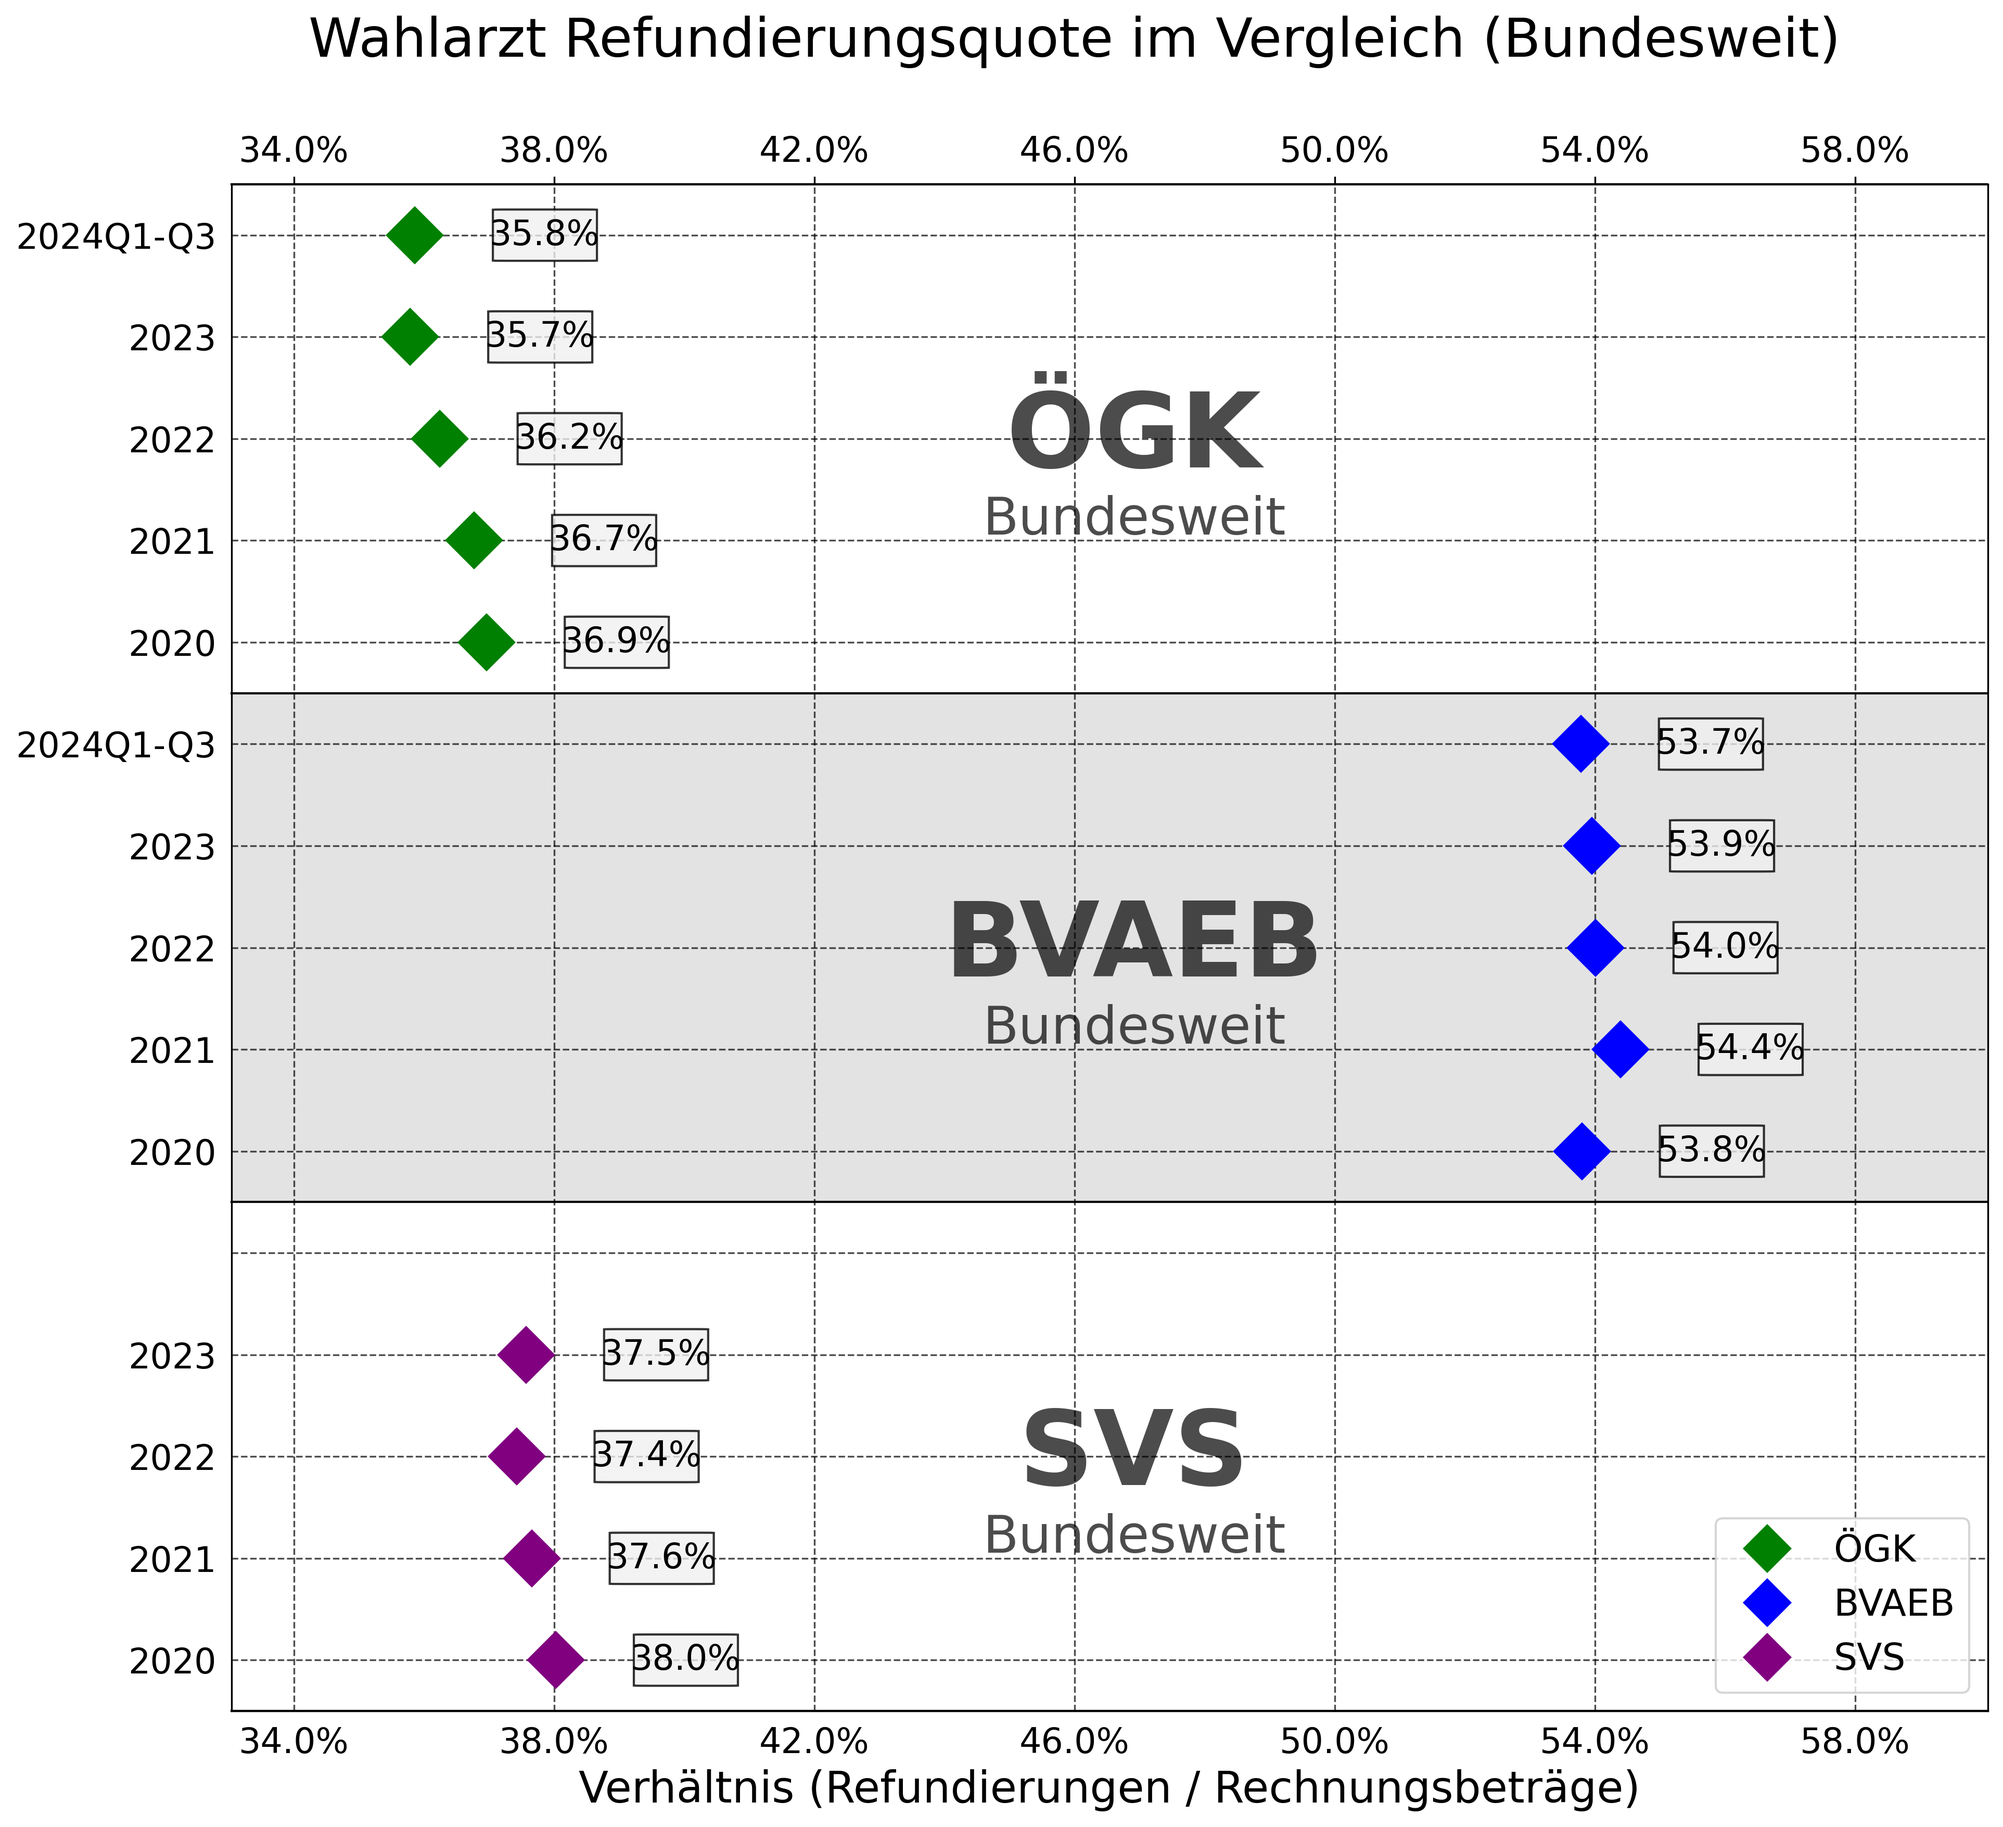
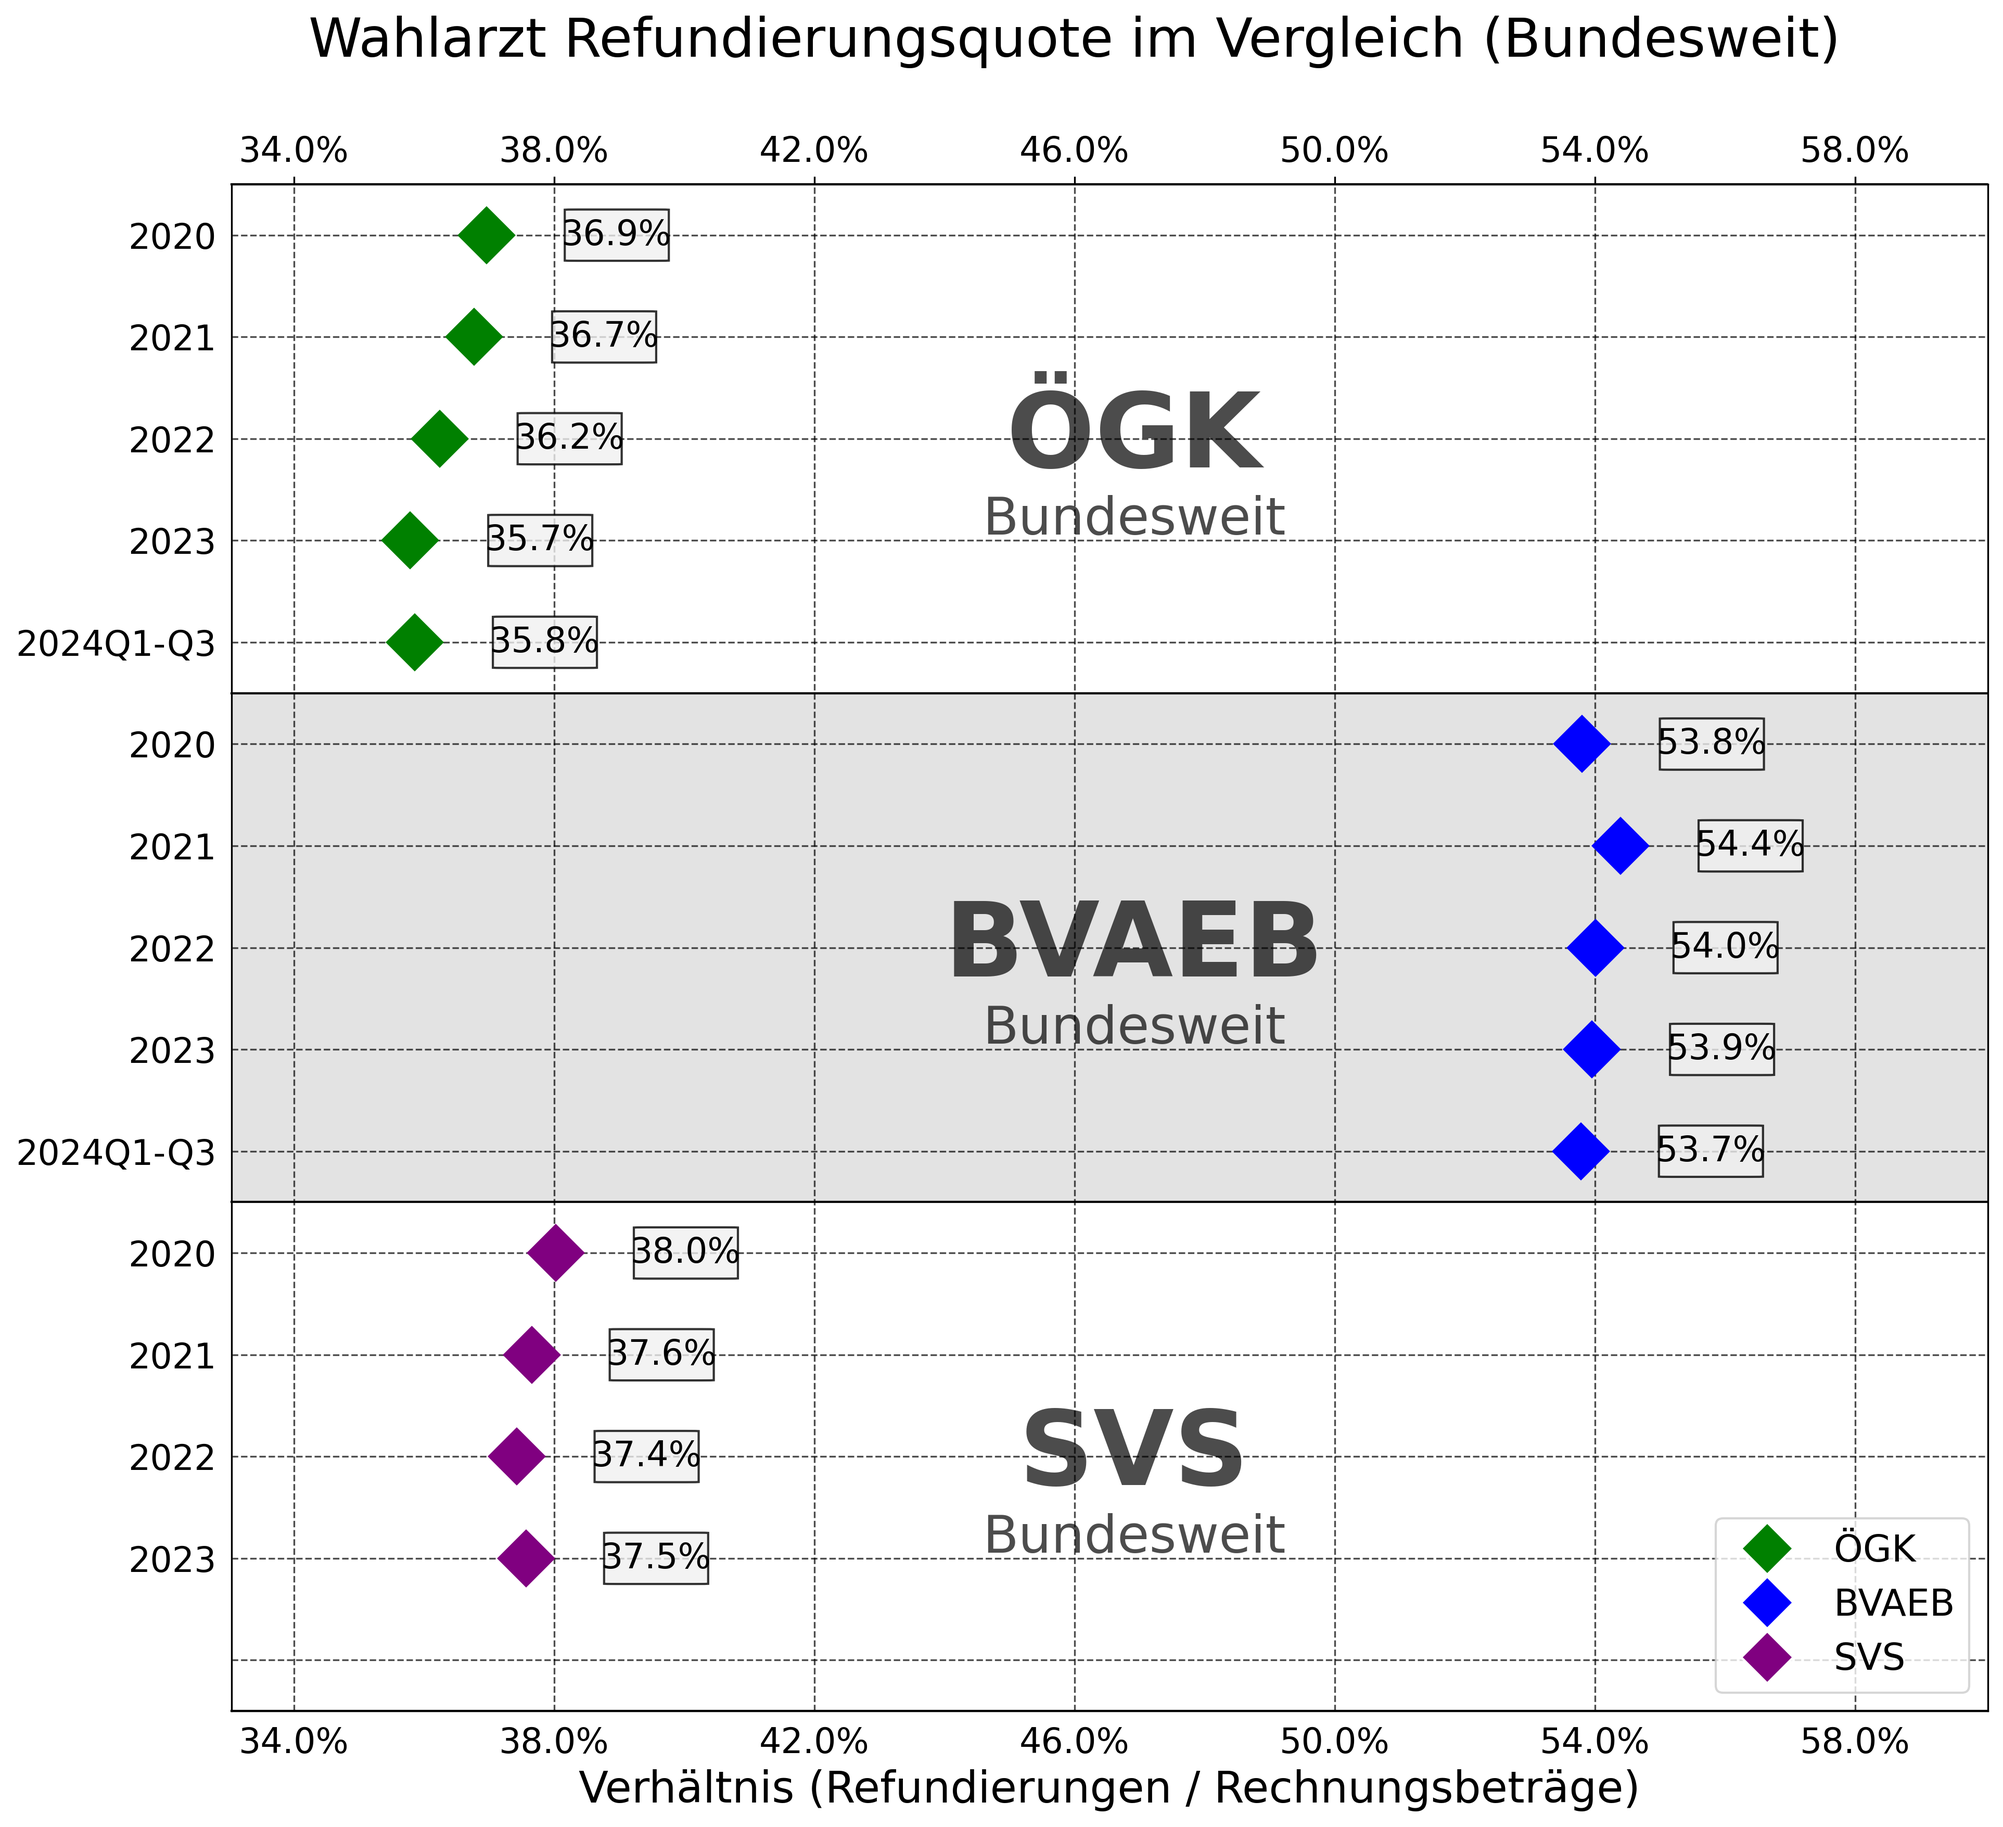
fixed years ordering

diff --git a/visualize/plot_insurance_comparison_ratio_points.py b/visualize/plot_insurance_comparison_ratio_points.py
@@ -84,7 +84,7 @@ def create_plot(bvaeb_file, oegk_file, svs_file, dark_mode=True):
 
     # Get unique years and sort them
     all_years = combined_df["Year"].unique()
-    years = sorted(all_years, key=year_sort_key, reverse=True)
+    years = sorted(all_years, key=year_sort_key, reverse=False)
 
     # Reorder insurances to put BVAEB in the middle
     insurances = ["ÖGK", "BVAEB", "SVS"]
